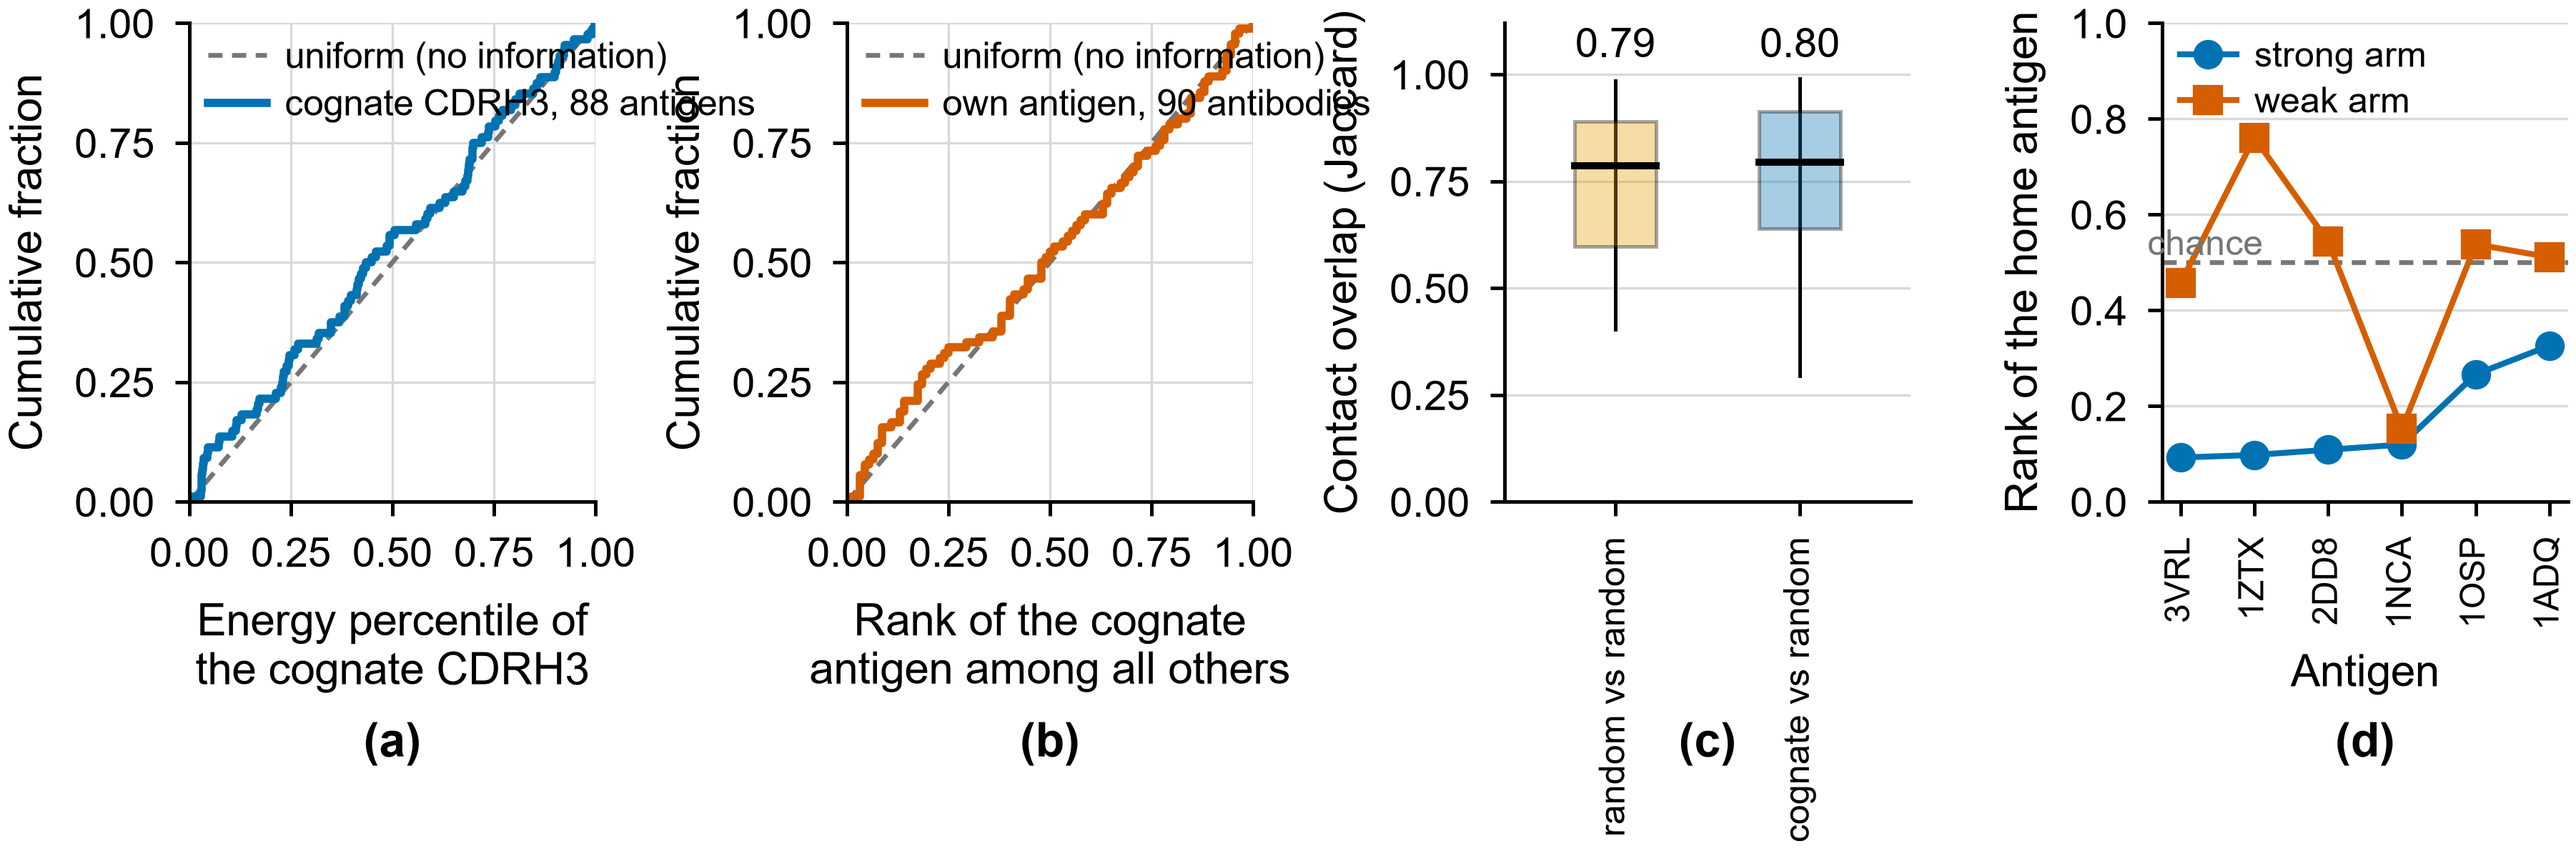
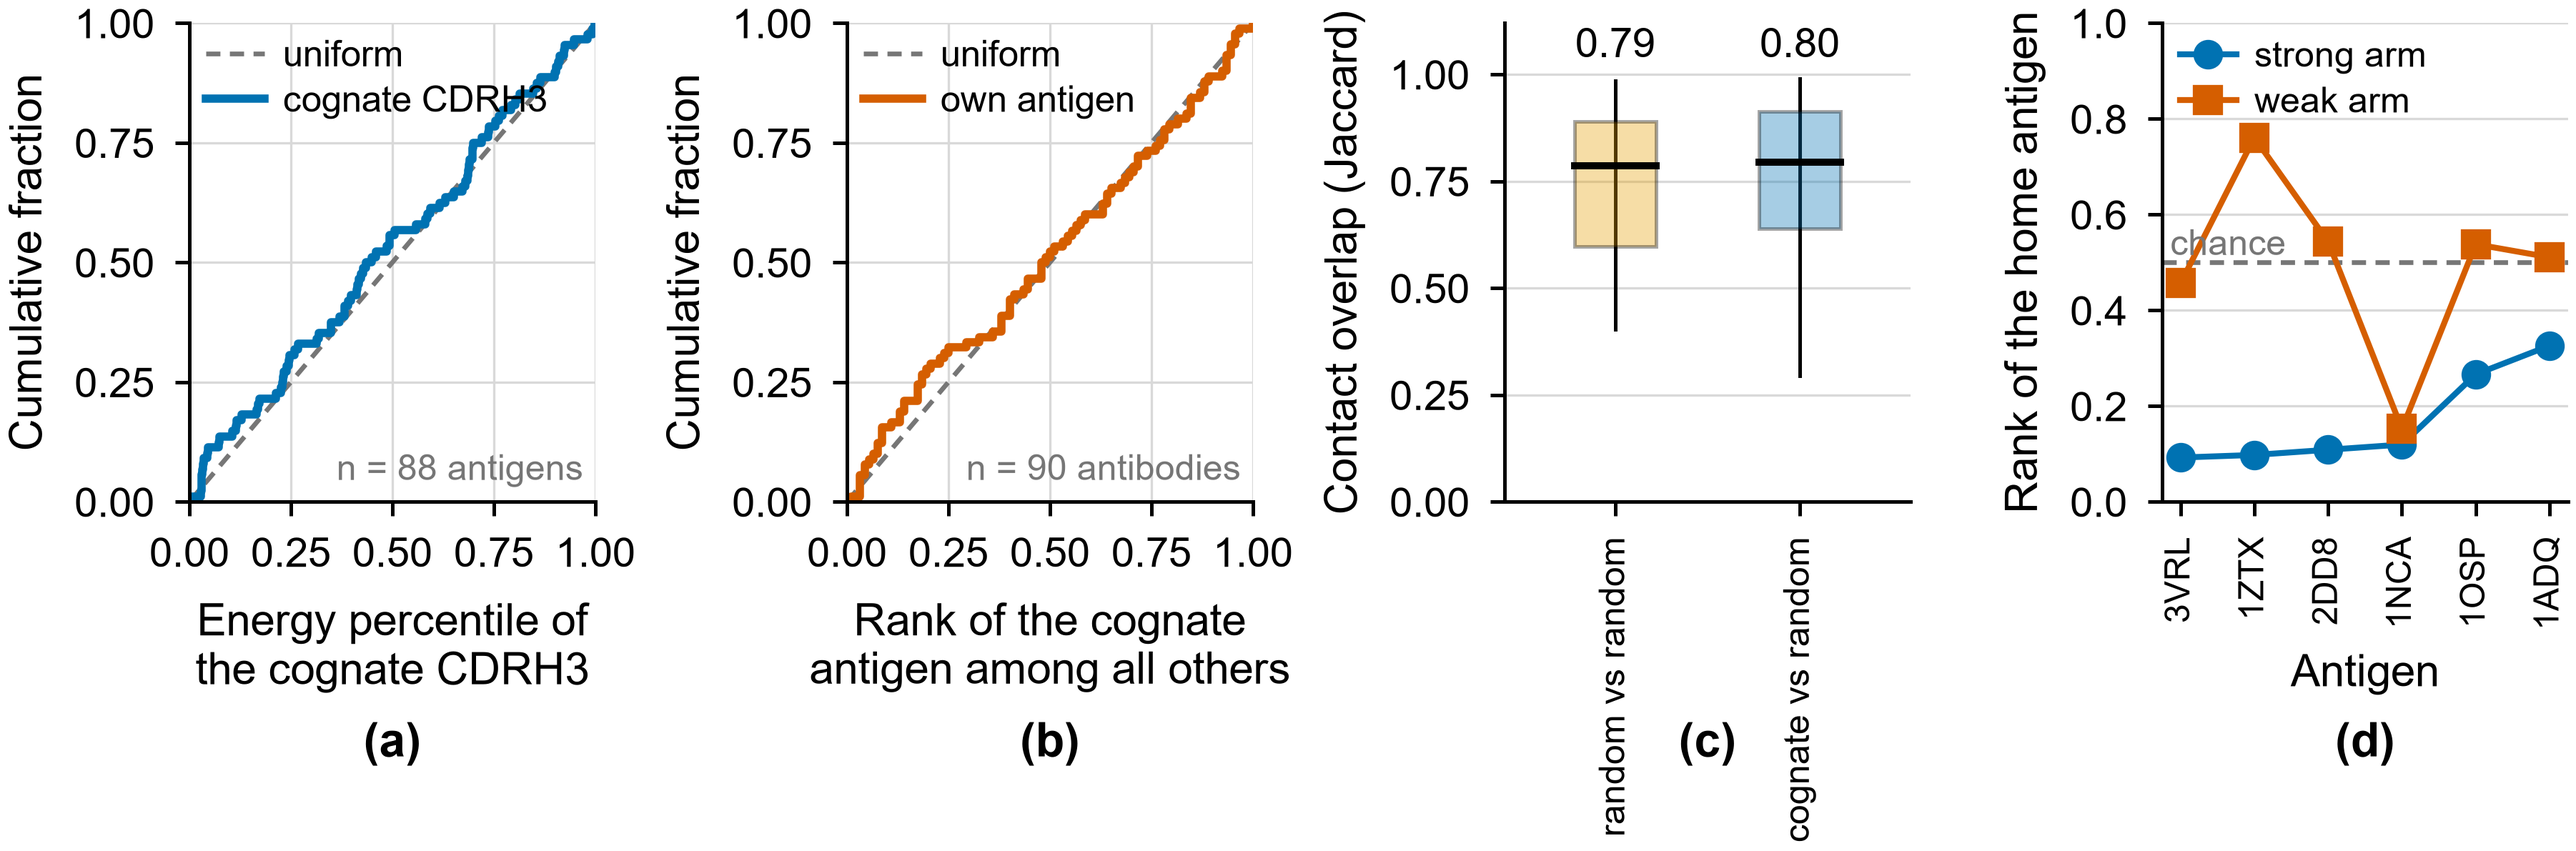
Keep the Figure S5 legends inside their own panels, and describe panel (d)
Four panels stand side by side, so each is under 70pt wide while the legend
labels ran to about 95pt. Matplotlib neither clips a legend nor warns about
one, so the overflow landed on the neighbour: panel (a)'s legend sat on panel
(b)'s "Cumulative fraction", and panel (b)'s on panel (c)'s "Contact overlap
(Jaccard)". The sample counts move out of the legend to the lower-right
corner, which an ECDF always leaves empty, and the labels are short enough to
fit beside the key.

Measuring is cheap, so the figure now measures itself: check_inside compares
every legend and in-panel text against its own axes and stops the build on an
overflow. It immediately caught one more that reading the figure had missed,
the "chance" label in panel (d), seven pixels into panel (c).

Also describe panel (d) in the caption, which listed only (a) to (c). The
panel reports the strong- and weak-arm sensitivity that the article gives as
0.092 to 0.326 and 0.152 to 0.761; it was in the figure with nothing pointing
at it.

diff --git a/src/fig_oracle_scope.py b/src/fig_oracle_scope.py
@@ -83,7 +83,7 @@ def ecdf_vs_uniform(ax, x01, colour, label):
     x = np.sort(np.asarray(x01, float))
     y = np.arange(1, len(x) + 1) / len(x)
     ax.plot([0, 1], [0, 1], color=MUTED, lw=0.8, ls=(0, (3, 2)),
-            label="uniform (no information)")
+            label="uniform")
     ax.step(np.concatenate([[0], x, [1]]),
             np.concatenate([[0], y, [1]]), where="post",
             color=colour, lw=1.4, label=label)
@@ -95,6 +95,57 @@ def ecdf_vs_uniform(ax, x01, colour, label):
     ax.set_axisbelow(True)
 
 
+def legend_inside(ax):
+    """범례를 패널 안에 둔다.
+
+    긴 이름을 그대로 두면 범례가 패널보다 넓어져 옆 패널의 축 이름을
+    덮는다. 이 그림이 실제로 그랬다 -- (a)의 범례가 (b)의 "Cumulative
+    fraction" 을, (b)의 범례가 (c)의 "Contact overlap (Jaccard)" 를 덮고
+    있었다. matplotlib 은 범례를 자르지도 경고하지도 않는다.
+
+    이름과 표본 수를 한 줄에 같이 넣으면 어떤 글씨 크기로도 들어가지
+    않는다. 네 패널이 가로로 서 있어 패널 하나가 70pt 가 채 안 되기
+    때문이다. 그래서 이름만 범례에 두고 수는 따로 적는다(count).
+    """
+    ax.legend(loc="upper left", frameon=False, fontsize=6.2,
+              handlelength=1.6, handletextpad=0.5, borderpad=0.15,
+              labelspacing=0.3)
+
+
+def count(ax, text):
+    """표본 수를 오른쪽 아래에 적는다.
+
+    ECDF 는 왼쪽 아래에서 오른쪽 위로 오르므로 오른쪽 아래 구석은 늘
+    비어 있다. 범례에서 덜어낸 수를 그리로 보낸다.
+    """
+    ax.text(0.97, 0.03, text, transform=ax.transAxes, ha="right",
+            va="bottom", fontsize=6.0, color=MUTED)
+
+
+def check_inside(fig, axes):
+    """패널 안에 적은 글이 정말 패널 안에 있는가.
+
+    글이 패널 밖으로 나가도 matplotlib 은 아무 말도 하지 않는다. 옆
+    패널의 축 이름 위에 얹히고 나서야 사람 눈에 띄고, 그때는 이미 PDF 가
+    나간 뒤다. 가로로 넘치는 것만 본다 -- 패널 글자와 중앙값 꼬리표는
+    일부러 위아래로 나가 있다.
+    """
+    fig.canvas.draw()
+    bad = []
+    for ax, L in zip(axes, "abcd"):
+        box = ax.get_window_extent()
+        for a in [ax.get_legend()] + list(ax.texts):
+            if a is None:
+                continue
+            e = a.get_window_extent()
+            out = max(box.x0 - e.x0, e.x1 - box.x1)
+            if out > 1.0:
+                bad.append("(%s) 글이 패널 밖으로 %.0fpx 나갑니다: %r"
+                           % (L, out, getattr(a, "get_text",
+                                              lambda: "legend")()[:40]))
+    return bad
+
+
 def main():
     ok, rank, epi = load()
     os.makedirs(OUT, exist_ok=True)
@@ -103,22 +154,20 @@ def main():
 
     # ---- (a) energy percentile of the cognate antibody
     ax = axes[0]
-    ecdf_vs_uniform(ax, ok.pct_better / 100, BLUE,
-                    f"cognate CDRH3, {len(ok)} antigens")
+    ecdf_vs_uniform(ax, ok.pct_better / 100, BLUE, "cognate CDRH3")
     ax.set_xlabel("Energy percentile of\nthe cognate CDRH3")
     ax.set_ylabel("Cumulative fraction")
-    ax.legend(loc="upper left", frameon=False, fontsize=6.2,
-              handlelength=1.6, borderpad=0.2)
+    legend_inside(ax)
+    count(ax, f"n = {len(ok)} antigens")
     panel(ax, "a", drop=0.46)
 
     # ---- (b) rank of the own antigen among the others
     ax = axes[1]
-    ecdf_vs_uniform(ax, rank.rank01, VERM,
-                    f"own antigen, {len(rank)} antibodies")
+    ecdf_vs_uniform(ax, rank.rank01, VERM, "own antigen")
     ax.set_xlabel("Rank of the cognate\nantigen among all others")
     ax.set_ylabel("Cumulative fraction")
-    ax.legend(loc="upper left", frameon=False, fontsize=6.2,
-              handlelength=1.6, borderpad=0.2)
+    legend_inside(ax)
+    count(ax, f"n = {len(rank)} antibodies")
     panel(ax, "b", drop=0.46)
 
     # ---- (c) the site is a property of the antigen
@@ -158,8 +207,10 @@ def main():
         ax.plot(x, pair.weak, "s-", color=VERM, lw=1.0, ms=4,
                 label="weak arm")
         ax.axhline(0.5, color=MUTED, lw=0.8, ls=(0, (3, 2)), zorder=1)
-        ax.text(-0.45, 0.5, "chance ", color=MUTED, fontsize=6.0,
-                va="bottom", ha="left")
+        # x 는 패널 비율, y 는 자료값. 자료 좌표로 적으면 항원 수가
+        # 달라질 때마다 글이 패널 밖으로 밀려난다 -- 실제로 그랬다.
+        ax.text(0.02, 0.5, "chance", transform=ax.get_yaxis_transform(),
+                color=MUTED, fontsize=6.0, va="bottom", ha="left")
         ax.set_xticks(x)
         ax.set_xticklabels([a.split("_")[0] for a in pair.antigen],
                            fontsize=5.8, rotation=90)
@@ -170,6 +221,14 @@ def main():
                   handlelength=1.6, borderpad=0.2)
         ygrid(ax)
     panel(ax, "d", drop=0.46)
+
+    miss = check_inside(fig, axes)
+    if miss:
+        for m in miss:
+            print("  " + m)
+        sys.exit("패널 밖으로 나간 글이 있습니다. 줄이거나 자리를 옮긴 뒤 "
+                 "다시 그리십시오 -- 네 패널이 가로로 서 있어 넘친 글은 "
+                 "옆 패널의 축 이름 위에 얹힙니다.")
 
     p = f"{OUT}/F7.png"
     save_fixed_width(fig, p)

diff --git a/manuscript/supplementary_information.tex b/manuscript/supplementary_information.tex
@@ -226,7 +226,17 @@ Decoding the lattice pose gives the antigen residues each sequence contacts;
 unrelated random sequences overlap each other as much as the cognate antibody
 overlaps them, so the contact site is a property of the antigen rather than of
 the sequence. Boxes are quartiles with the median marked and whiskers at the
-5th and 95th percentiles.}\label{fig:scope}
+5th and 95th percentiles. \textbf{(d)}, what the test can resolve, as a
+function of binding strength. For each of six antigens, two arms share the
+antigen, the CDRH3 length and the neighbourhood structure and differ only in
+strength: a strong arm from the matched library, whose members the oracle
+ranks in its top percentile, and a weak arm from the neighbourhood of a parent
+at the 45th energy percentile, where the native cognate antibodies sit. The
+strong arms place the home antigen consistently ahead of chance; the weak arms
+largely do not, so the flat distributions in \textbf{(a)} and \textbf{(b)}
+report a limit of the oracle in the range the native antibodies occupy rather
+than a limit of the test. Tables~S18 and~S19 give the
+intervals.}\label{fig:scope}
 \end{figure}
 
 The reason is visible in the poses. Absolut! records the position and move
